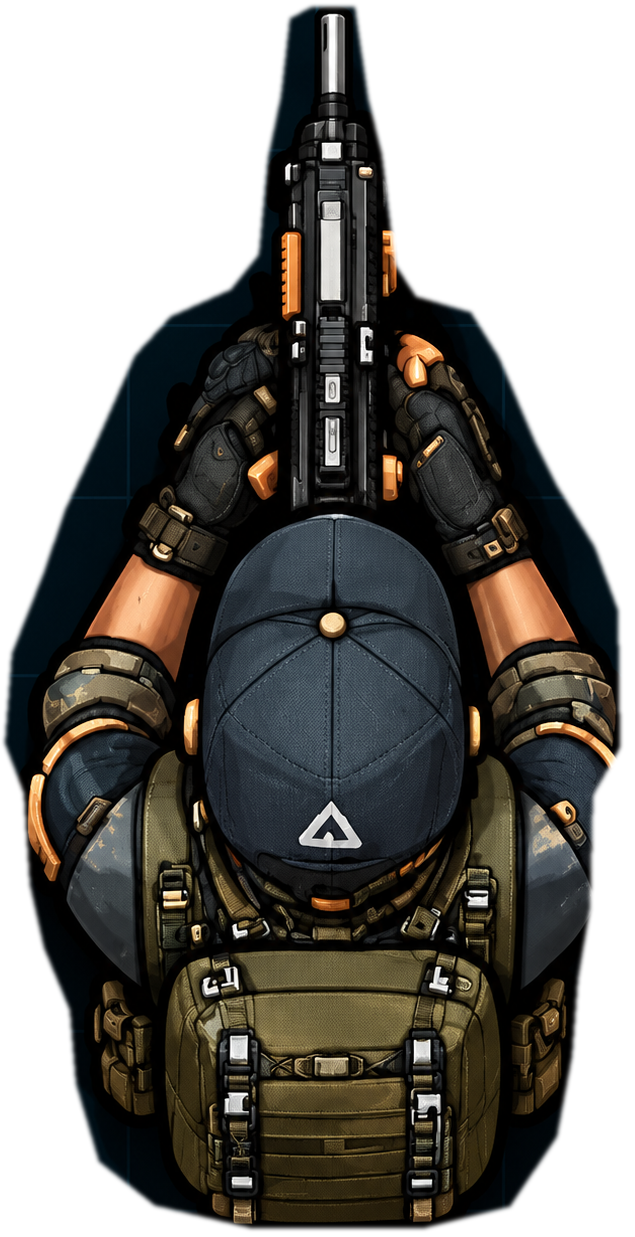
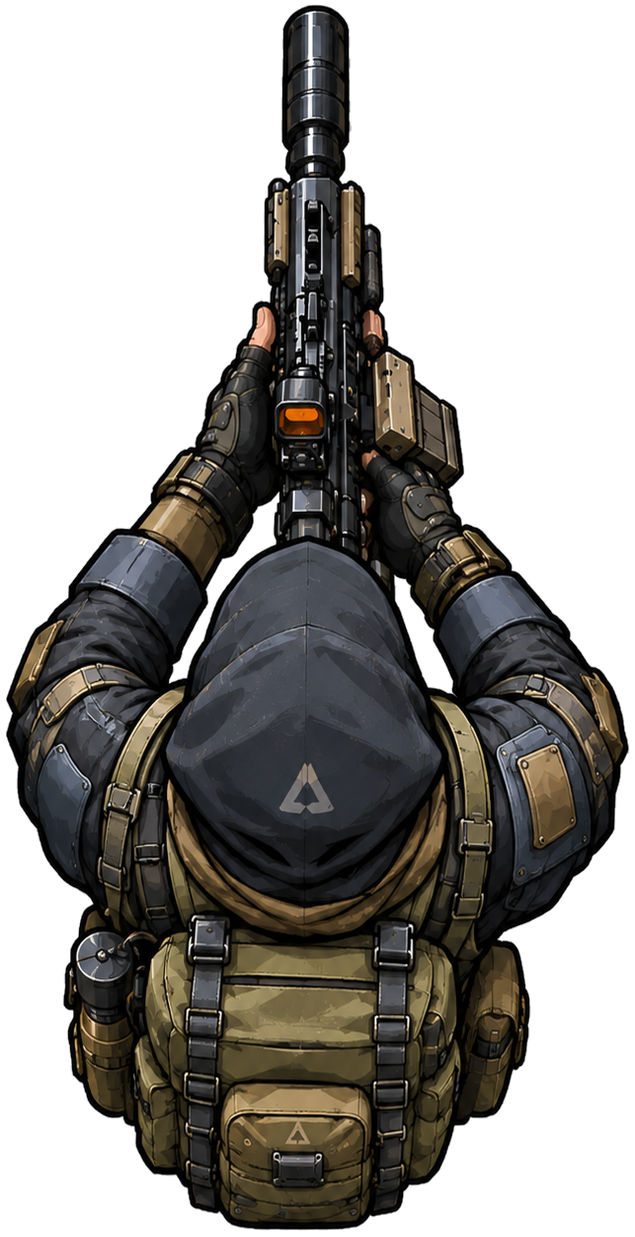
TEST SURVIVANT

diff --git a/service-worker.js b/service-worker.js
@@ -1,5 +1,5 @@
-const CACHE='ashfall-fixed-m1-alpha2-survivant3-20261027';
-const FILES=["./fixedworld.js?v=alpha2-survivant3","./fixedworld.css?v=alpha2-survivant3","./assets/fixedworld/rooms.json","./assets/fixedworld/01.webp","./assets/fixedworld/02.webp","./assets/fixedworld/03.webp","./assets/fixedworld/04.webp","./assets/fixedworld/05.webp","./assets/fixedworld/06.webp","./assets/fixedworld/07.webp","./assets/fixedworld/08.webp","./assets/fixedworld/09.webp","./assets/fixedworld/10.webp","./assets/fixedworld/11.webp","./assets/fixedworld/12.webp","./", "./index.html", "./game.css?v=093pgfx1", "./identity-tokens.css?v=0902g26", "./identity-components.css?v=0902g26", "./identity-integrated.css?v=0902g26", "./loot-phase.css?v=0902g26", "./progression-phase.css?v=0902g26", "./equipment-phase.css?v=0902g26", "./longterm-phase.css?v=0902g26", "./home-simplified.css?v=0902g26", "./refuge-ui-clean.css?v=0902g26", "./equipment2.css?v=0902g26", "./graphics-p1.css?v=0902g26", "./assets/hud/nomad-badge.png", "./assets/visual2/hero/torso-front.png", "./assets/visual2/hero/torso-side.png", "./assets/visual2/hero/torso-back.png", "./assets/visual2/hero/leg-left.png", "./assets/visual2/hero/leg-right.png", "./assets/visual2/hero/pack.png", "./assets/visual2/hero/pack-side.png", "./assets/visual2/manifest.json", "./assets/weapons_framed/carbine_k17.png", "./assets/weapons_framed/cendre.png", "./assets/weapons_framed/impulse.png", "./assets/weapons_framed/ion.png", "./assets/weapons_framed/nomade9.png", "./assets/weapons_framed/pistol_reinforced.png", "./assets/weapons_framed/pistol_rescue.png", "./assets/weapons_framed/pistol_used.png", "./assets/weapons_framed/precision.png", "./assets/weapons_framed/prototype.png", "./assets/weapons_framed/reliquat.png", "./assets/weapons_framed/rifle_industrial.png", "./assets/weapons_framed/rifle_recovery.png", "./assets/weapons_framed/smg_sector.png", "./assets/weapons_framed/spectre.png", "./assets/weapons_framed/vektor.png", "./assets/chest_common.webp", "./assets/chest_common_charging.webp", "./assets/chest_common_open.webp", "./assets/chest_rare.webp", "./assets/chest_rare_charging.webp", "./assets/chest_rare_open.webp", "./assets/chest_epic.webp", "./assets/chest_epic_charging.webp", "./assets/chest_epic_open.webp", "./assets/nomade/pistol_complete.png", "./assets/nomade/rifle_complete.png", "./identity.js?v=0902g26", "./equipment2-core.js?v=0902g26", "./survivant-topdown.js?v=093p03b3", "./assets/survivant-topdown.png?v=093pgfx1", "./p01-graphics.js?v=093p03b3", "./assets/p01v2/floor_concrete.png?v=093p03b3", "./assets/p01v2/floor_metal.png?v=093p03b3", "./assets/p01v2/floor_cracked.png?v=093p03b3", "./assets/p01v2/floor_grate.png?v=093p03b3", "./assets/p01v2/floor_wear.png?v=093p03b3", "./assets/p01v2/floor_hazard.png?v=093p03b3", "./assets/p01v2/floor_hatch.png?v=093p03b3", "./assets/p01v2/floor_tread.png?v=093p03b3", "./assets/p01v2/wall_horizontal.png?v=093p03b3", "./assets/p01v2/wall_horizontal_amber.png?v=093p03b3", "./assets/p01v2/wall_horizontal_pipes.png?v=093p03b3", "./assets/p01v2/wall_vertical.png?v=093p03b3", "./assets/p01v2/wall_corner.png?v=093p03b3", "./assets/p01v2/wall_joint.png?v=093p03b3", "./assets/p01v2/wall_reinforced.png?v=093p03b3", "./assets/p01v2/door_open.png?v=093p03b3", "./assets/p01v2/door_locked.png?v=093p03b3", "./assets/p01v2/door_arena.png?v=093p03b3", "./assets/p01v2/door_frame.png?v=093p03b3", "./assets/p01v2/prop_crate.png?v=093p03b3", "./assets/p01v2/prop_military.png?v=093p03b3", "./assets/p01v2/prop_container.png?v=093p03b3", "./assets/p01v2/prop_generator.png?v=093p03b3", "./assets/p01v2/prop_console.png?v=093p03b3", "./assets/p01v2/prop_machine.png?v=093p03b3", "./assets/p01v2/prop_barrels.png?v=093p03b3", "./assets/p01v2/prop_pipes.png?v=093p03b3", "./assets/p01v2/prop_supply.png?v=093p03b3", "./assets/p01v2/light_amber.png?v=093p03b3", "./assets/p01v2/light_cyan.png?v=093p03b3", "./assets/p01v2/contact_shadow.png?v=093p03b3", "./generator25.js?v=093p03b3", "./game.js?v=093p03b3", "./immersion.js?v=0902g26", "./manifest.webmanifest", "./icon-192.png", "./icon-512.png"];
+const CACHE='ashfall-m1-survivant4-classique-20261027';
+const FILES=["./fixedworld.js?v=alpha2-survivant3","./fixedworld.css?v=alpha2-survivant3","./assets/fixedworld/rooms.json","./assets/fixedworld/01.webp","./assets/fixedworld/02.webp","./assets/fixedworld/03.webp","./assets/fixedworld/04.webp","./assets/fixedworld/05.webp","./assets/fixedworld/06.webp","./assets/fixedworld/07.webp","./assets/fixedworld/08.webp","./assets/fixedworld/09.webp","./assets/fixedworld/10.webp","./assets/fixedworld/11.webp","./assets/fixedworld/12.webp","./", "./index.html", "./game.css?v=093pgfx1", "./identity-tokens.css?v=0902g26", "./identity-components.css?v=0902g26", "./identity-integrated.css?v=0902g26", "./loot-phase.css?v=0902g26", "./progression-phase.css?v=0902g26", "./equipment-phase.css?v=0902g26", "./longterm-phase.css?v=0902g26", "./home-simplified.css?v=0902g26", "./refuge-ui-clean.css?v=0902g26", "./equipment2.css?v=0902g26", "./graphics-p1.css?v=0902g26", "./assets/hud/nomad-badge.png", "./assets/visual2/hero/torso-front.png", "./assets/visual2/hero/torso-side.png", "./assets/visual2/hero/torso-back.png", "./assets/visual2/hero/leg-left.png", "./assets/visual2/hero/leg-right.png", "./assets/visual2/hero/pack.png", "./assets/visual2/hero/pack-side.png", "./assets/visual2/manifest.json", "./assets/weapons_framed/carbine_k17.png", "./assets/weapons_framed/cendre.png", "./assets/weapons_framed/impulse.png", "./assets/weapons_framed/ion.png", "./assets/weapons_framed/nomade9.png", "./assets/weapons_framed/pistol_reinforced.png", "./assets/weapons_framed/pistol_rescue.png", "./assets/weapons_framed/pistol_used.png", "./assets/weapons_framed/precision.png", "./assets/weapons_framed/prototype.png", "./assets/weapons_framed/reliquat.png", "./assets/weapons_framed/rifle_industrial.png", "./assets/weapons_framed/rifle_recovery.png", "./assets/weapons_framed/smg_sector.png", "./assets/weapons_framed/spectre.png", "./assets/weapons_framed/vektor.png", "./assets/chest_common.webp", "./assets/chest_common_charging.webp", "./assets/chest_common_open.webp", "./assets/chest_rare.webp", "./assets/chest_rare_charging.webp", "./assets/chest_rare_open.webp", "./assets/chest_epic.webp", "./assets/chest_epic_charging.webp", "./assets/chest_epic_open.webp", "./assets/nomade/pistol_complete.png", "./assets/nomade/rifle_complete.png", "./identity.js?v=0902g26", "./equipment2-core.js?v=0902g26", "./survivant-topdown.js?v=093sv4c1", "./assets/survivant-topdown.png?v=093sv4c1", "./p01-graphics.js?v=093p03b3", "./assets/p01v2/floor_concrete.png?v=093p03b3", "./assets/p01v2/floor_metal.png?v=093p03b3", "./assets/p01v2/floor_cracked.png?v=093p03b3", "./assets/p01v2/floor_grate.png?v=093p03b3", "./assets/p01v2/floor_wear.png?v=093p03b3", "./assets/p01v2/floor_hazard.png?v=093p03b3", "./assets/p01v2/floor_hatch.png?v=093p03b3", "./assets/p01v2/floor_tread.png?v=093p03b3", "./assets/p01v2/wall_horizontal.png?v=093p03b3", "./assets/p01v2/wall_horizontal_amber.png?v=093p03b3", "./assets/p01v2/wall_horizontal_pipes.png?v=093p03b3", "./assets/p01v2/wall_vertical.png?v=093p03b3", "./assets/p01v2/wall_corner.png?v=093p03b3", "./assets/p01v2/wall_joint.png?v=093p03b3", "./assets/p01v2/wall_reinforced.png?v=093p03b3", "./assets/p01v2/door_open.png?v=093p03b3", "./assets/p01v2/door_locked.png?v=093p03b3", "./assets/p01v2/door_arena.png?v=093p03b3", "./assets/p01v2/door_frame.png?v=093p03b3", "./assets/p01v2/prop_crate.png?v=093p03b3", "./assets/p01v2/prop_military.png?v=093p03b3", "./assets/p01v2/prop_container.png?v=093p03b3", "./assets/p01v2/prop_generator.png?v=093p03b3", "./assets/p01v2/prop_console.png?v=093p03b3", "./assets/p01v2/prop_machine.png?v=093p03b3", "./assets/p01v2/prop_barrels.png?v=093p03b3", "./assets/p01v2/prop_pipes.png?v=093p03b3", "./assets/p01v2/prop_supply.png?v=093p03b3", "./assets/p01v2/light_amber.png?v=093p03b3", "./assets/p01v2/light_cyan.png?v=093p03b3", "./assets/p01v2/contact_shadow.png?v=093p03b3", "./generator25.js?v=093p03b3", "./game.js?v=093p03b3", "./immersion.js?v=0902g26", "./manifest.webmanifest", "./icon-192.png", "./icon-512.png"];
 self.addEventListener('install',event=>event.waitUntil(caches.open(CACHE).then(cache=>cache.addAll(FILES)).then(()=>self.skipWaiting())));
 self.addEventListener('activate',event=>event.waitUntil(caches.keys().then(keys=>Promise.all(keys.filter(key=>key.startsWith('ashfall-')&&key!==CACHE).map(key=>caches.delete(key)))).then(()=>self.clients.claim())));
 self.addEventListener('fetch',event=>{

diff --git a/index.html b/index.html
@@ -114,7 +114,7 @@
  </div>
 </div>
 </div><div aria-live="polite" class="ui-mission" hidden="" id="uiMission"></div>
-<div id="ashLootToast" class="ash-loot-toast" role="status" aria-live="polite" hidden></div><div id="stage"><canvas aria-label="Terrain de jeu" height="400" id="canvas" width="360"></canvas><div hidden="" id="hint"></div><div aria-label="Joystick de déplacement" id="joystickZone"><div id="joyBase"><div id="joyKnob"></div></div></div><div hidden="" id="overlay"></div></div></section><section aria-live="polite" hidden="" id="runDebrief"></section><div id="log" role="status">Bienvenue au refuge.</div><div class="line foot"><button id="saveBtn"><svg class="af-icon " aria-hidden="true" focusable="false" viewBox="0 0 24 24"><use href="#af-i-save"></use></svg> Sauver</button><button id="backupBtn"><svg class="af-icon " aria-hidden="true" focusable="false" viewBox="0 0 24 24"><use href="#af-i-save"></use></svg> Sauvegarde</button><button id="rulesBtn"><svg class="af-icon " aria-hidden="true" focusable="false" viewBox="0 0 24 24"><use href="#af-i-info"></use></svg> Règles</button></div><section class="panel" hidden="" id="tools"><div class="line"><h3 id="toolsTitle"></h3><button id="toolsClose" aria-label="Fermer"><svg class="af-icon " aria-hidden="true" focusable="false" viewBox="0 0 24 24"><use href="#af-i-close"></use></svg></button></div><div id="toolsBody"></div></section><div aria-label="État de la version" class="ash-update-panel"><span>VERSION INSTALLÉE <b id="ashVersion">0.9.3-peripherie-p03-b3-full-test1</b></span><button aria-label="Vérifier la version publiée du jeu" id="ashCheckUpdate" type="button"><svg class="af-icon " aria-hidden="true" focusable="false" viewBox="0 0 24 24"><use href="#af-i-clock"></use></svg> Vérifier la version</button><small aria-live="polite" id="ashUpdateMessage" role="status"></small></div><small class="footer">Prototype solo hors ligne après premier chargement · aucun achat réel · sauvegarde locale à exporter régulièrement</small></div></main><script defer="" src="identity.js?v=0902g26"></script><script defer="" src="equipment2-core.js?v=0902g26"></script><script defer="" src="survivant-topdown.js?v=093p03b3"></script><script defer="" src="p01-graphics.js?v=093p03b3"></script><script defer="" src="generator25.js?v=093p03b3"></script><script defer="" src="game.js?v=093p03b3"></script><script defer="" src="immersion.js?v=0902g26"></script><div aria-label="Tutoriel ASHFALL" aria-modal="true" class="ash-tutorial" hidden="" id="tutorialModal" role="dialog"><div class="ash-tutorial-card"><div class="ash-tutorial-header"><b><svg class="af-icon" aria-hidden="true" viewBox="0 0 24 24"><use href="#af-i-info"></use></svg> FORMATION DU SURVIVANT</b><button id="tutorialSkip" type="button">Passer <svg class="af-icon " aria-hidden="true" focusable="false" viewBox="0 0 24 24"><use href="#af-i-close"></use></svg></button></div><div class="ash-tutorial-progress" id="tutorialProgress"></div><div aria-hidden="true" class="ash-tutorial-scene" id="tutorialScene"></div><h2 id="tutorialTitle"></h2><p id="tutorialDesc"></p><div class="ash-tutorial-tip" id="tutorialTip"></div><div class="ash-tutorial-actions"><button id="tutorialPrev" type="button"><svg class="af-icon " aria-hidden="true" focusable="false" viewBox="0 0 24 24"><use href="#af-i-back"></use></svg> Retour</button><button class="primary" id="tutorialNext" type="button">Suivant <svg class="af-icon " aria-hidden="true" focusable="false" viewBox="0 0 24 24"><use href="#af-i-next"></use></svg></button></div></div></div><script>document.getElementById("characterHeldWeaponImage").dataset.pistolSrc=document.getElementById("characterHeldWeaponImage").src;</script><script id="ash-version-control">(function(){
+<div id="ashLootToast" class="ash-loot-toast" role="status" aria-live="polite" hidden></div><div id="stage"><canvas aria-label="Terrain de jeu" height="400" id="canvas" width="360"></canvas><div hidden="" id="hint"></div><div aria-label="Joystick de déplacement" id="joystickZone"><div id="joyBase"><div id="joyKnob"></div></div></div><div hidden="" id="overlay"></div></div></section><section aria-live="polite" hidden="" id="runDebrief"></section><div id="log" role="status">Bienvenue au refuge.</div><div class="line foot"><button id="saveBtn"><svg class="af-icon " aria-hidden="true" focusable="false" viewBox="0 0 24 24"><use href="#af-i-save"></use></svg> Sauver</button><button id="backupBtn"><svg class="af-icon " aria-hidden="true" focusable="false" viewBox="0 0 24 24"><use href="#af-i-save"></use></svg> Sauvegarde</button><button id="rulesBtn"><svg class="af-icon " aria-hidden="true" focusable="false" viewBox="0 0 24 24"><use href="#af-i-info"></use></svg> Règles</button></div><section class="panel" hidden="" id="tools"><div class="line"><h3 id="toolsTitle"></h3><button id="toolsClose" aria-label="Fermer"><svg class="af-icon " aria-hidden="true" focusable="false" viewBox="0 0 24 24"><use href="#af-i-close"></use></svg></button></div><div id="toolsBody"></div></section><div aria-label="État de la version" class="ash-update-panel"><span>VERSION INSTALLÉE <b id="ashVersion">0.9.3-survivant4-classique</b></span><button aria-label="Vérifier la version publiée du jeu" id="ashCheckUpdate" type="button"><svg class="af-icon " aria-hidden="true" focusable="false" viewBox="0 0 24 24"><use href="#af-i-clock"></use></svg> Vérifier la version</button><small aria-live="polite" id="ashUpdateMessage" role="status"></small></div><small class="footer">Prototype solo hors ligne après premier chargement · aucun achat réel · sauvegarde locale à exporter régulièrement</small></div></main><script defer="" src="identity.js?v=0902g26"></script><script defer="" src="equipment2-core.js?v=0902g26"></script><script defer="" src="survivant-topdown.js?v=093sv4c1"></script><script defer="" src="p01-graphics.js?v=093p03b3"></script><script defer="" src="generator25.js?v=093p03b3"></script><script defer="" src="game.js?v=093p03b3"></script><script defer="" src="immersion.js?v=0902g26"></script><div aria-label="Tutoriel ASHFALL" aria-modal="true" class="ash-tutorial" hidden="" id="tutorialModal" role="dialog"><div class="ash-tutorial-card"><div class="ash-tutorial-header"><b><svg class="af-icon" aria-hidden="true" viewBox="0 0 24 24"><use href="#af-i-info"></use></svg> FORMATION DU SURVIVANT</b><button id="tutorialSkip" type="button">Passer <svg class="af-icon " aria-hidden="true" focusable="false" viewBox="0 0 24 24"><use href="#af-i-close"></use></svg></button></div><div class="ash-tutorial-progress" id="tutorialProgress"></div><div aria-hidden="true" class="ash-tutorial-scene" id="tutorialScene"></div><h2 id="tutorialTitle"></h2><p id="tutorialDesc"></p><div class="ash-tutorial-tip" id="tutorialTip"></div><div class="ash-tutorial-actions"><button id="tutorialPrev" type="button"><svg class="af-icon " aria-hidden="true" focusable="false" viewBox="0 0 24 24"><use href="#af-i-back"></use></svg> Retour</button><button class="primary" id="tutorialNext" type="button">Suivant <svg class="af-icon " aria-hidden="true" focusable="false" viewBox="0 0 24 24"><use href="#af-i-next"></use></svg></button></div></div></div><script>document.getElementById("characterHeldWeaponImage").dataset.pistolSrc=document.getElementById("characterHeldWeaponImage").src;</script><script id="ash-version-control">(function(){
 'use strict';
 const VERSION='0.9.3-peripherie-p03-b3-full-test1';
 const button=document.getElementById('ashCheckUpdate');

diff --git a/survivant-topdown.js b/survivant-topdown.js
@@ -1,8 +1,8 @@
-/* ASHFALL Survivant 3.0 — rotation uniforme à 360°, image unique, aucune animation. */
+/* ASHFALL Survivant 4.0 classique — rotation uniforme à 360°, image unique, aucune animation. */
 (function(root){'use strict';
  const image=new Image();let loaded=false;
  image.onload=()=>{loaded=true;}; image.onerror=()=>{loaded=false;};
- image.src='assets/survivant-topdown.png?v=0902p01v32';
+ image.src='assets/survivant-topdown.png?v=093sv4c1';
  root.AshTopDownSurvivor=Object.freeze({
   draw(ctx,o){
    if(!loaded||!image.naturalWidth)return false;

diff --git a/RAPPORT_SURVIVANT4_CLASSIQUE.md b/RAPPORT_SURVIVANT4_CLASSIQUE.md
@@ -1,0 +1,40 @@
+# ASHFALL 0.9.3 — SURVIVANT 4.0 CLASSIQUE
+
+## Objet
+Remplacement graphique du survivant jouable par le **Survivant 4.0 classique** à partir de l'image fournie par l'utilisateur.
+
+## Fichiers modifiés
+- `assets/survivant-topdown.png` — sprite remplacé par la version 4.0 nettoyée.
+- `survivant-topdown.js` — mise à jour du cache-busting de l'image (`v=093sv4c1`) et commentaire de version.
+- `service-worker.js` — nouveau nom de cache et mise à jour des références du sprite / script pour forcer le rechargement.
+- `index.html` — mise à jour de la référence du script `survivant-topdown.js` et du libellé de version affiché.
+
+## Fichiers ajoutés
+- `backup_survivant4/survivant-topdown_ORIGINAL.png` — sauvegarde de la ressource d'origine.
+- `RAPPORT_SURVIVANT4_CLASSIQUE.md` — présent rapport.
+- `CHANGELOG_SURVIVANT4_CLASSIQUE.md` — synthèse de la livraison.
+
+## Préparation du PNG
+- Image source reçue : `32a5a5d1-b8a9-593b-adc4-1f4ce516390a.png`
+- Vérification : le damier était intégré à l'image (canal alpha source entièrement opaque).
+- Traitement : détourage du personnage avec conservation des détails principaux.
+- Export final : PNG RGBA avec vrai canal alpha.
+- Canvas final aligné sur la ressource du moteur : **635×1237px**.
+
+## Contrôles techniques effectués
+1. Vérification du chemin réellement utilisé par le moteur : `assets/survivant-topdown.png`.
+2. Vérification de la présence d'un canal alpha sur le PNG final.
+3. Vérification de la taille finale du sprite pour compatibilité avec le rendu existant.
+4. Vérification des références de cache (`survivant-topdown.js`, `service-worker.js`, `index.html`).
+5. Vérification de l'intégrité de l'archive finale ZIP.
+
+## Résultat attendu en jeu
+- Survivant 4.0 visible dans les salles en remplacement de l'ancien sprite.
+- Fusil orienté vers le haut au repos.
+- Rotation 360° conservée via le système existant.
+- Aucun damier ni fond opaque autour du personnage.
+
+## Limites / remarques
+- Aucun système de gameplay n'a été modifié.
+- Le placement visuel est conservé via le système existant de rendu (`drawImage(..., -20, -39, 40, 78)`).
+- La mise à jour du cache a été faite pour limiter le risque d'affichage de l'ancien sprite sur navigateur/PWA.

diff --git a/CHANGELOG_SURVIVANT4_CLASSIQUE.md b/CHANGELOG_SURVIVANT4_CLASSIQUE.md
@@ -1,0 +1,12 @@
+# CHANGELOG — ASHFALL 0.9.3 SURVIVANT 4.0 CLASSIQUE
+
+## Modification principale
+- Remplacement du sprite du joueur par le **Survivant 4.0 classique**.
+
+## Technique
+- Nettoyage du fond en damier intégré à l'image source.
+- Export en PNG RGBA transparent.
+- Mise à jour des références de cache pour forcer le rechargement du nouveau sprite.
+
+## Aucun autre changement
+- Aucun changement sur le gameplay, les collisions, le combat, l'économie, l'inventaire, la progression ou les sauvegardes.
